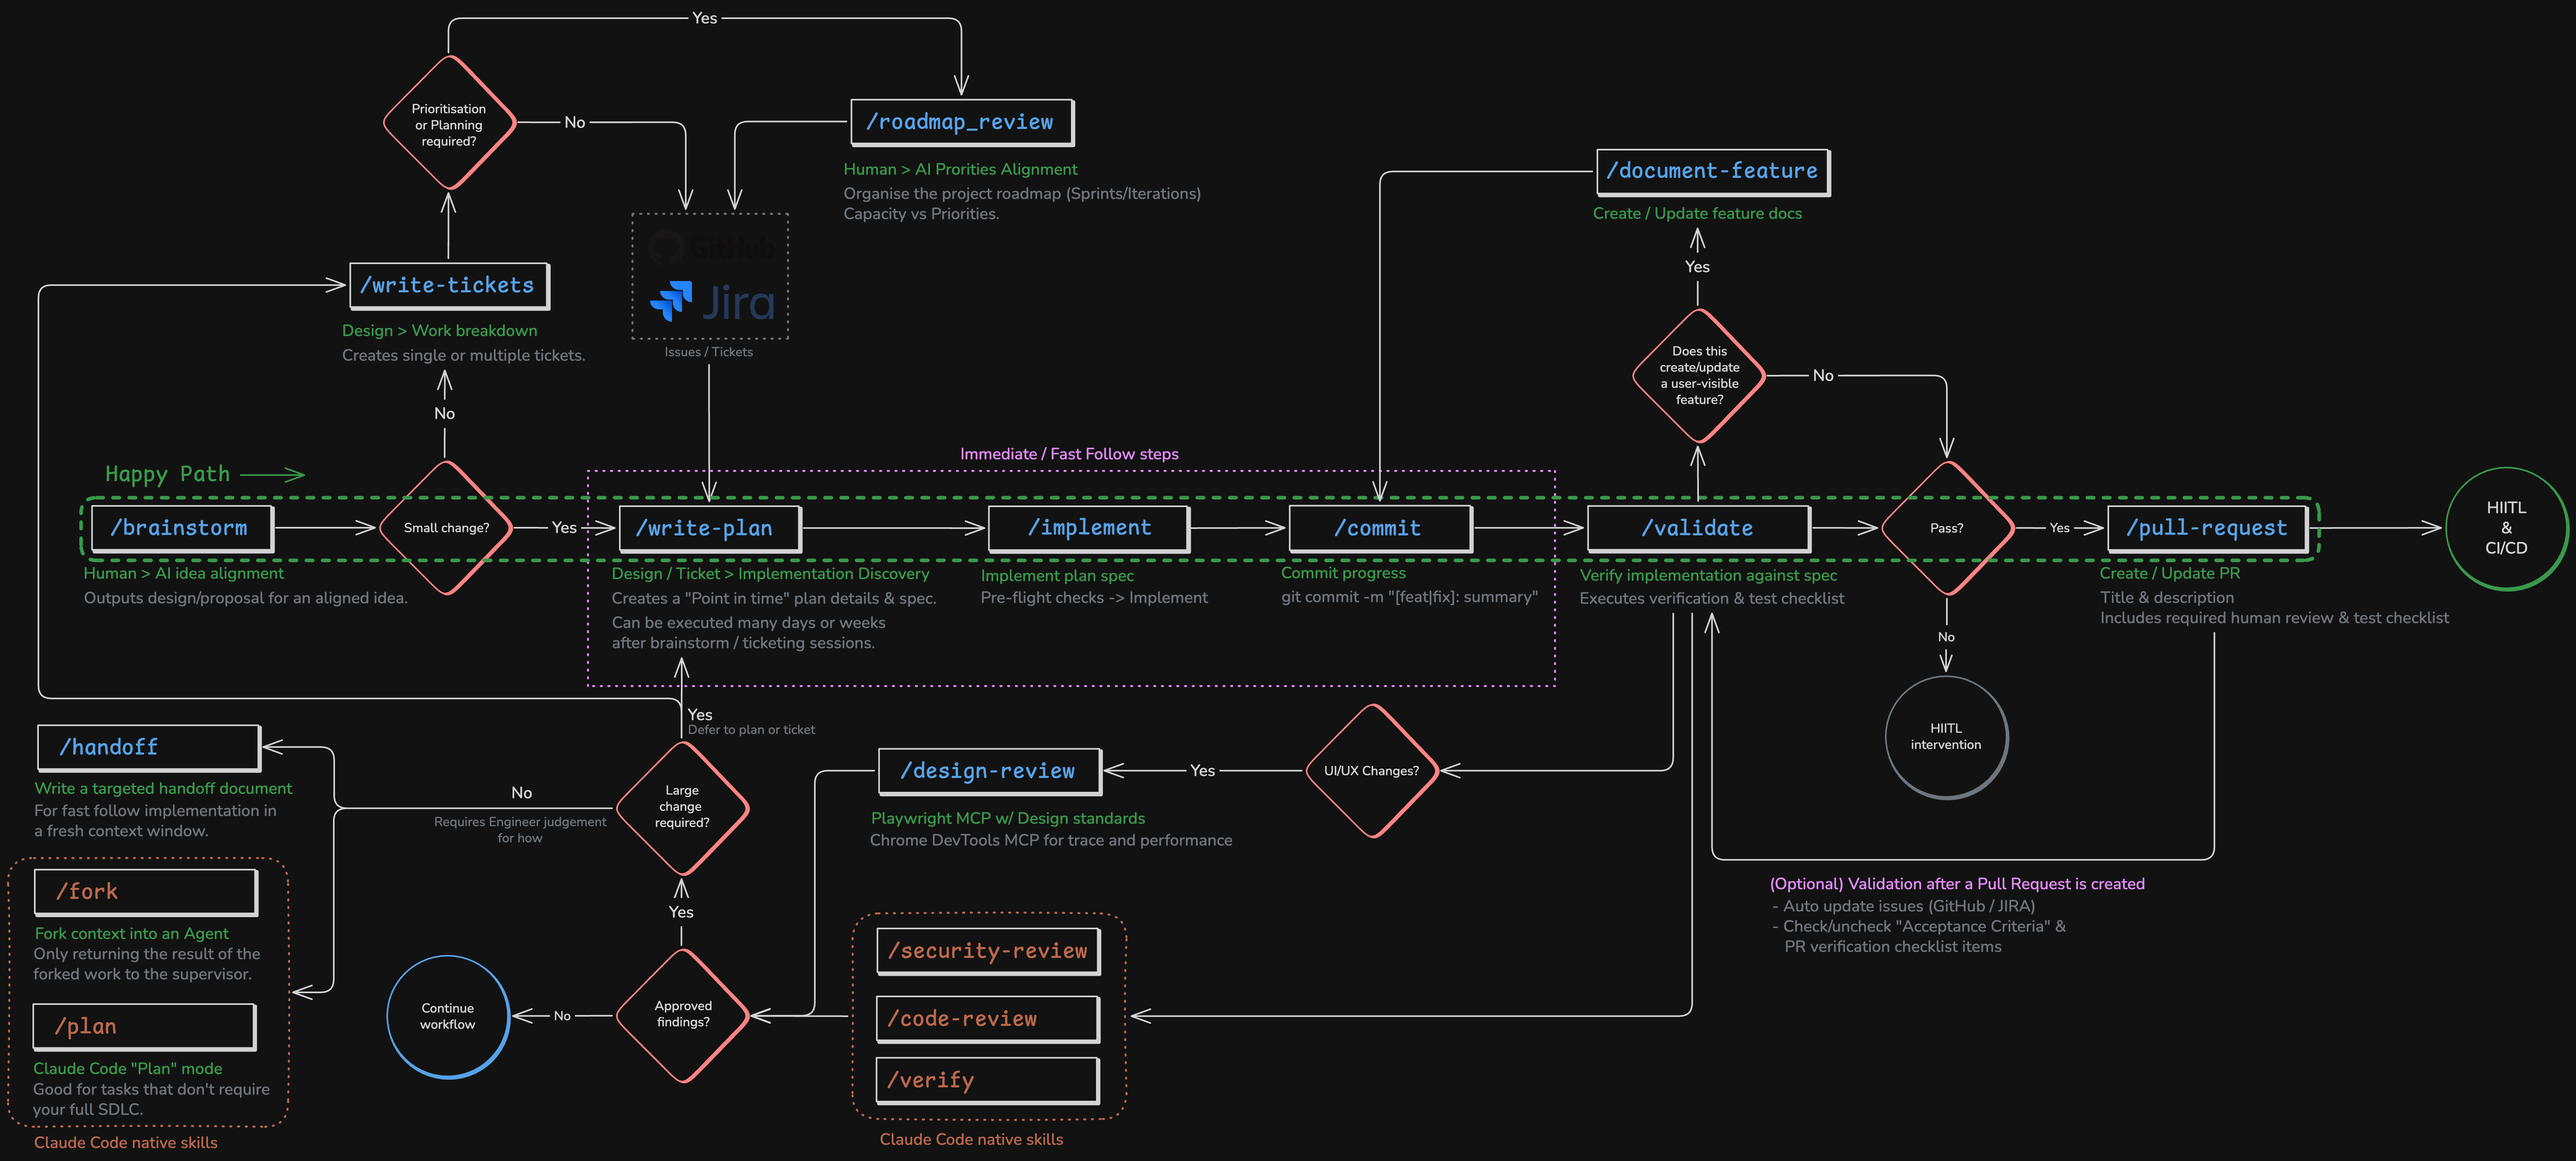
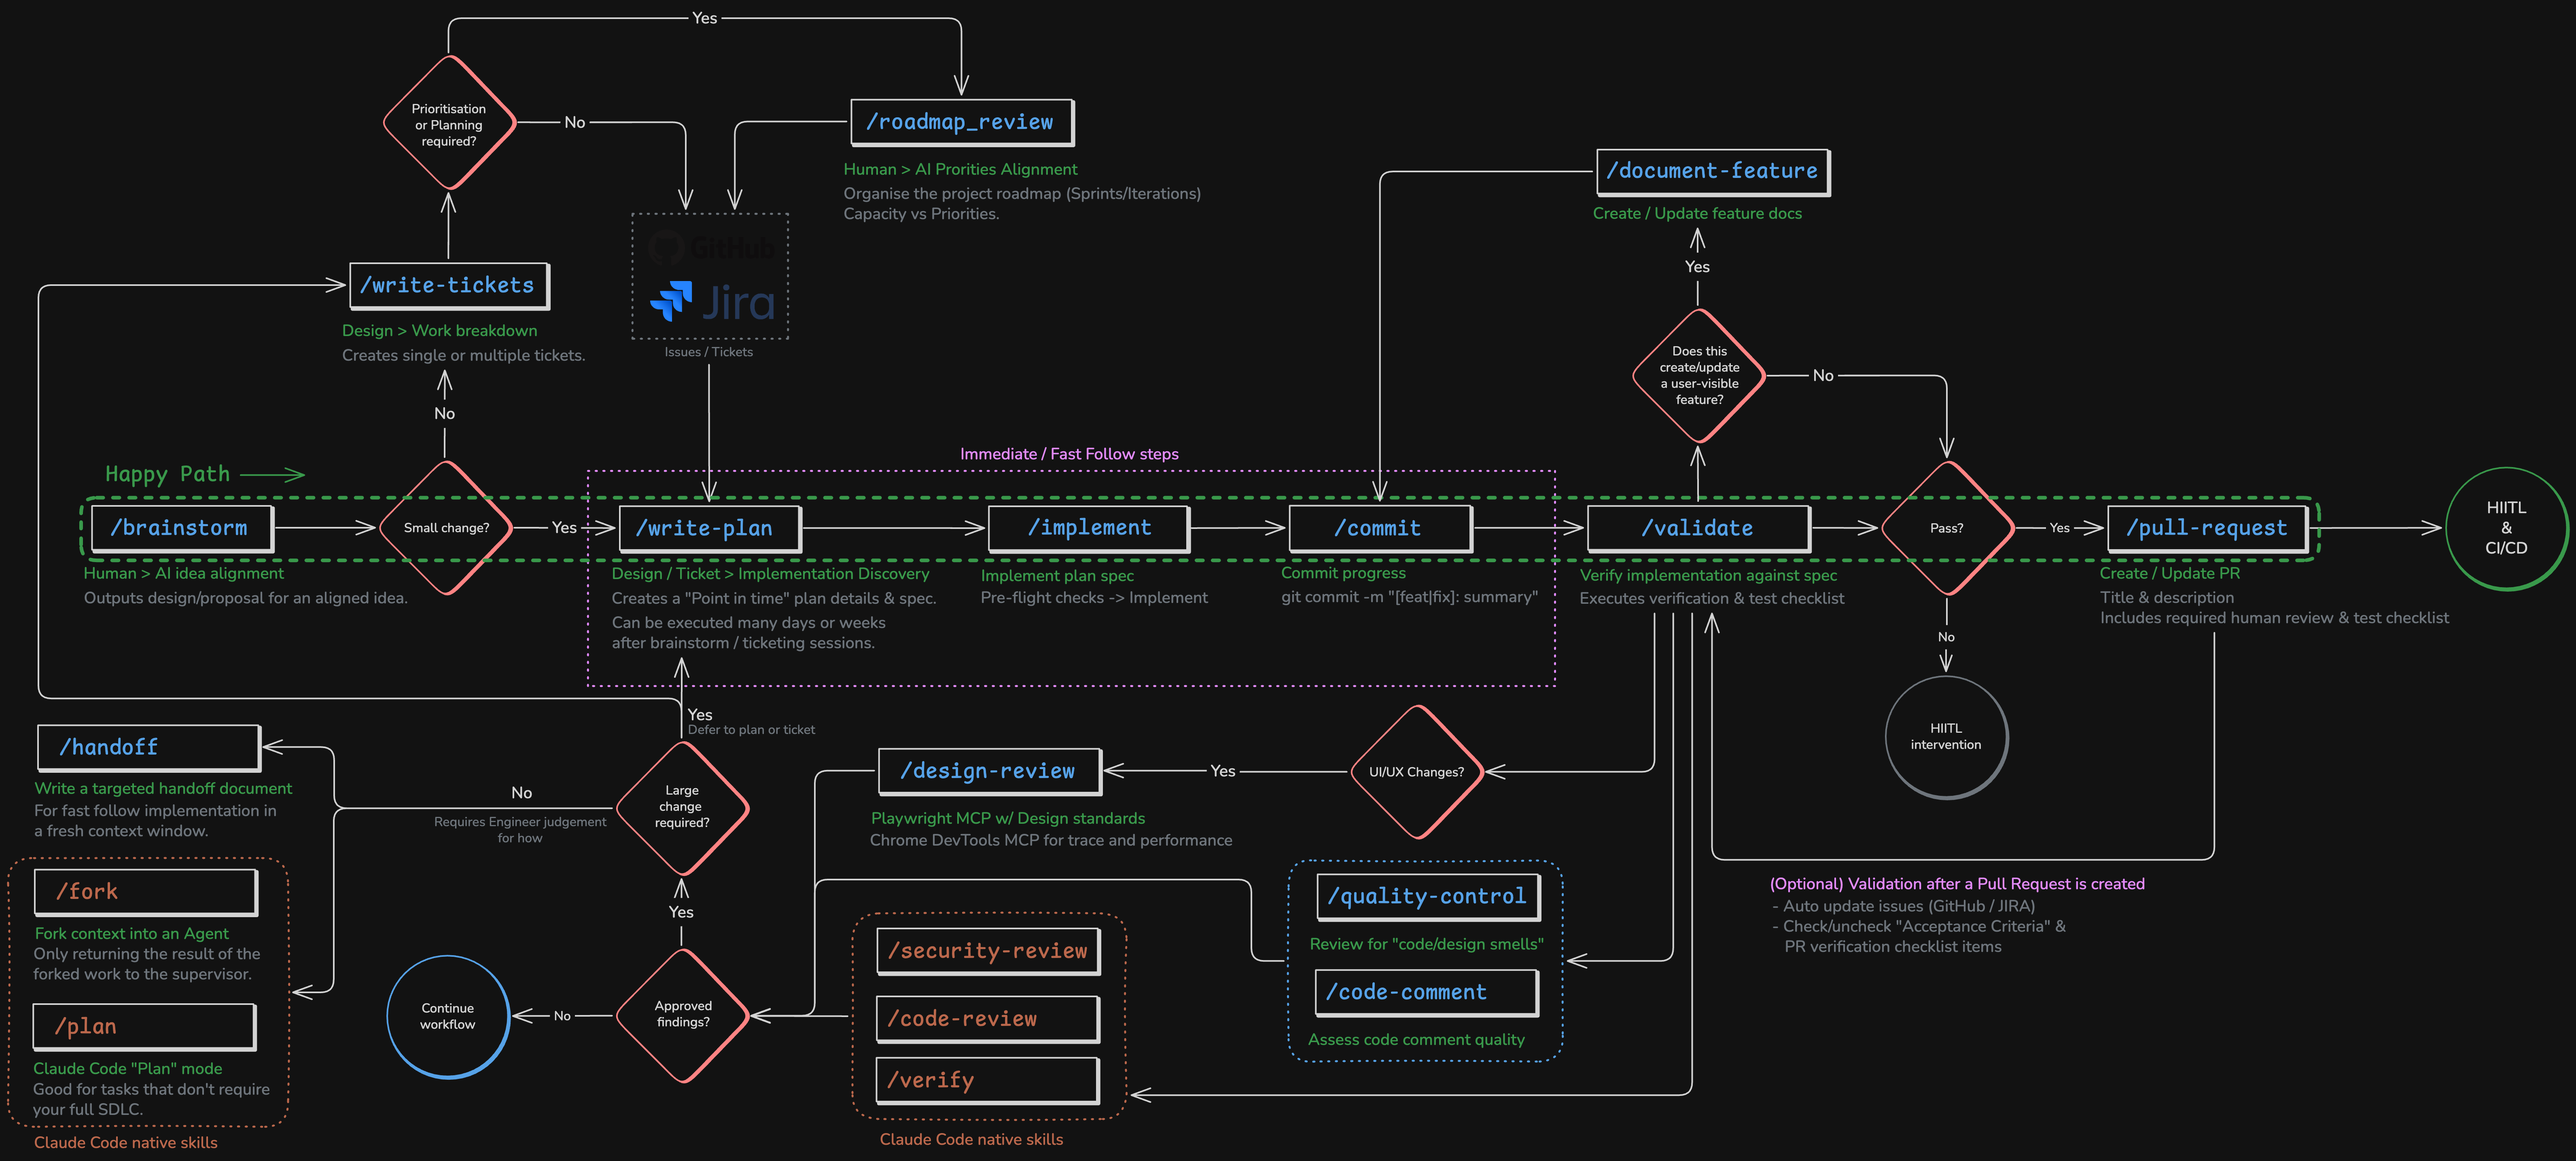
docs: add code-comment and quality-control skills to README + workflow diagram

Changed region(s): [[0.4976, 0.744, 0.622, 0.899], [0.4665, 0.62, 0.5909, 0.713]]

diff --git a/docs/README.md b/docs/README.md
@@ -82,6 +82,8 @@ These commands are invoked inside [Claude Code](https://claude.ai/code) via slas
 | `/iterate-plan` | Update existing plan with new feedback | Plan needs revision after code review or discovery |
 | `/implement <path>` | Execute a plan phase-by-phase. Invokes `frontend-design` skill for UI phases | Working through an approved plan |
 | `/validate <path>` | Verify implementation matches plan intent | After implementing — check nothing was missed |
+| `/quality-control [ref]` | Design-smell review of a diff against a fixed Fowler baseline (_Refactoring_ ch.3) | Design-quality lens beyond `/code-review` — after a change, before committing |
+| `/code-comment` | Writes terse, why-only code comments to house standard, and judges the comments in a diff | While writing/editing a comment, or reviewing the comments in a change |
 | `/plan-to-ralph-spec <path>` | Convert markdown plan to `.spec.json` for Ralph | Before running `ralph.sh` — produces the JSON spec Ralph reads |
 | `/commit` | Structured conventional commit | Ready to commit (follows repo conventions) |
 | `/design-review` | Visual/accessibility/brand review via Playwright | After UI/UX changes, before committing |
